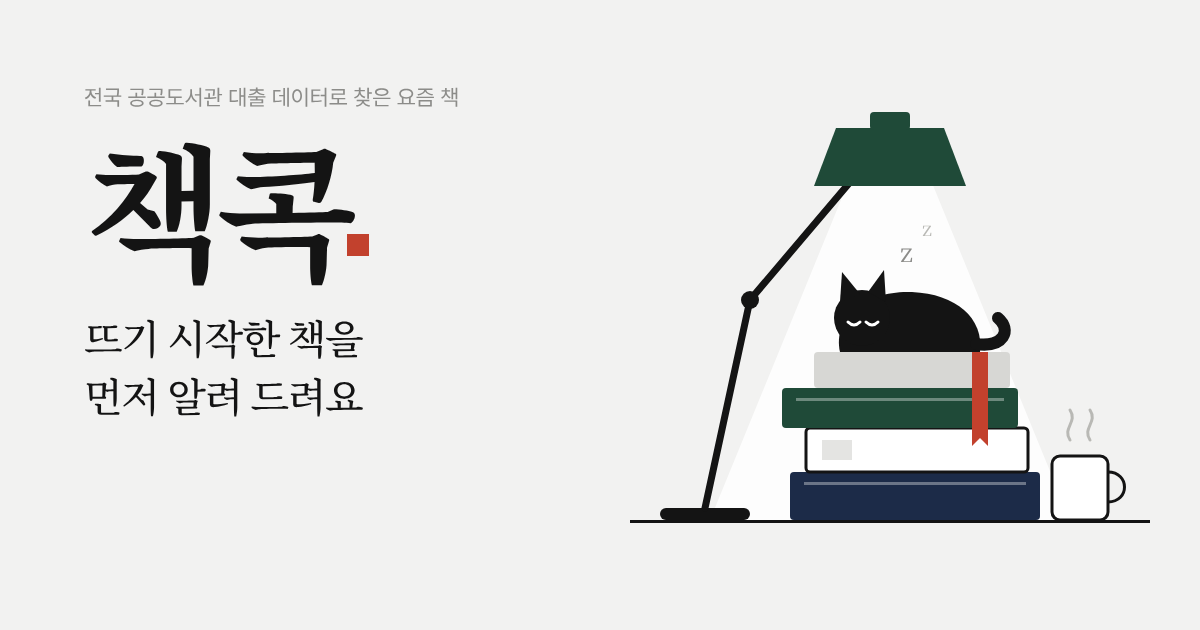
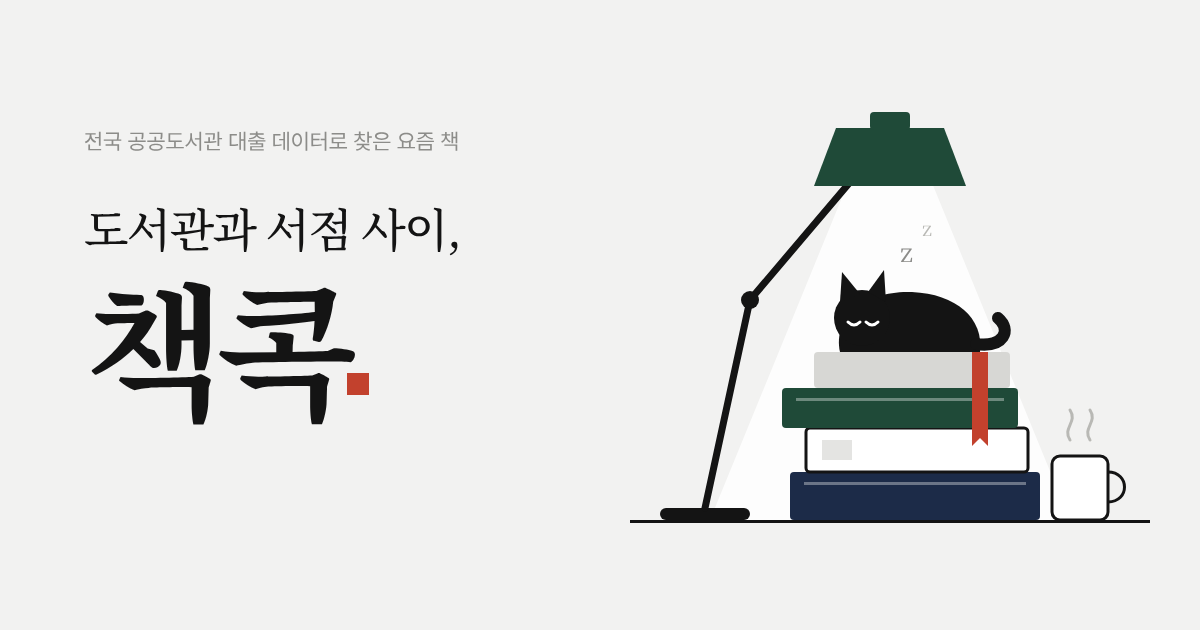
슬로건 '도서관과 서점 사이, 책콕' 적용: 미리보기 이미지·페이지 제목·설명·앱 이름·홈 첫 줄
Claude-Session: https://claude.ai/code/session_01UWatKrDsrq9n721haUJXCs

Changed region(s): [[0.0617, 0.2111, 0.4008, 0.6937], [0.0617, 0.1206, 0.4008, 0.181]]

diff --git a/index.html b/index.html
@@ -4,8 +4,8 @@
     <meta charset="UTF-8" />
     <meta name="viewport" content="width=device-width, initial-scale=1.0, viewport-fit=cover" />
     <meta name="theme-color" content="#ffffff" />
-    <title>책콕 — 먼저 알아채는 책 | 요즘 뜨기 시작한 책 추천</title>
-    <meta name="description" content="전국 도서관 대출 데이터로 요즘 뜨기 시작한 책을 먼저 알려주는 책 트렌드 서비스. 키워드·급상승 책·신작을 매일 업데이트해요." />
+    <title>책콕 — 도서관과 서점 사이 | 요즘 뜨는 책 찾고, 빌리고, 사기</title>
+    <meta name="description" content="도서관과 서점 사이, 책콕. 전국 공공도서관 대출 데이터로 요즘 뜨는 책을 먼저 찾고, 내 도서관에서 빌리거나 서점에서 사세요. 키워드·급상승 책·신작을 매일 업데이트해요." />
     <meta name="keywords" content="책콕, 책 추천, 요즘 뜨는 책, 베스트셀러, 도서관 인기 대출, 대출 급상승, 신간, 책 트렌드, 이달의 키워드" />
     <link rel="canonical" href="https://chaekkok.vercel.app/" />
     <meta name="robots" content="index, follow" />
@@ -14,22 +14,22 @@
     <meta property="og:site_name" content="책콕" />
     <meta property="og:locale" content="ko_KR" />
     <meta property="og:url" content="https://chaekkok.vercel.app/" />
-    <meta property="og:title" content="책콕 — 뜨기 시작한 책을 먼저 알려드려요" />
+    <meta property="og:title" content="도서관과 서점 사이, 책콕" />
     <meta property="og:description" content="전국 공공도서관 대출 데이터로 찾은 요즘 책. 이달의 키워드와 대출 급상승 책을 매일 아침 업데이트해요." />
-    <meta property="og:image" content="https://chaekkok.vercel.app/og.png?v=20261122c" />
+    <meta property="og:image" content="https://chaekkok.vercel.app/og.png?v=20261122d" />
     <meta property="og:image:width" content="1200" />
     <meta property="og:image:height" content="630" />
-    <meta property="og:image:alt" content="책콕 — 전국 공공도서관 대출 데이터로 뜨기 시작한 책을 먼저 알려 드려요" />
+    <meta property="og:image:alt" content="도서관과 서점 사이, 책콕 — 스탠드 아래 책 위에서 잠든 고양이" />
     <meta name="twitter:card" content="summary_large_image" />
-    <meta name="twitter:title" content="책콕 — 뜨기 시작한 책을 먼저 알려드려요" />
+    <meta name="twitter:title" content="도서관과 서점 사이, 책콕" />
     <meta name="twitter:description" content="전국 공공도서관 대출 데이터로 찾은 요즘 책. 매일 아침 업데이트해요." />
-    <meta name="twitter:image" content="https://chaekkok.vercel.app/og.png?v=20261122c" />
+    <meta name="twitter:image" content="https://chaekkok.vercel.app/og.png?v=20261122d" />
     <script type="application/ld+json">
       {
         "@context": "https://schema.org",
         "@type": "WebSite",
         "name": "책콕",
-        "alternateName": ["chaekkok", "책콕 — 먼저 알아채는 책"],
+        "alternateName": ["chaekkok", "도서관과 서점 사이, 책콕"],
         "url": "https://chaekkok.vercel.app/",
         "description": "전국 공공도서관 대출 데이터로 요즘 뜨기 시작한 책을 먼저 알려주는 책 트렌드 서비스",
         "inLanguage": "ko-KR"
@@ -55,7 +55,7 @@
   <body>
     <div id="root"></div>
     <noscript>
-      <h1>책콕 — 먼저 알아채는 책</h1>
+      <h1>도서관과 서점 사이, 책콕</h1>
       <p>전국 공공도서관 대출 데이터로 요즘 뜨기 시작한 책을 먼저 알려주는 책 트렌드 서비스예요. 화면을 보려면 자바스크립트를 켜 주세요.</p>
     </noscript>
     <script type="module" src="/src/main.jsx"></script>

diff --git a/src/index.css b/src/index.css
@@ -6593,3 +6593,7 @@ body { font-family: var(--font); letter-spacing: -0.012em; }
   .kokcat--stage { right: 18px; width: 78px; }
   .kokcat--page { right: 0; top: 10px; width: 84px; }
 }
+/* 슬로건 */
+.phome__slogan { margin: 0; padding: 6px 20px 0; font-family: var(--display); font-size: 15px; color: var(--ink-soft); letter-spacing: -0.02em; }
+.phome__slogan b { color: var(--ink); font-weight: 700; }
+@media (min-width: 1100px) { .phome__slogan { padding: 40px 0 0; font-size: 17px; } .phome .pkw { padding-top: 22px; } }

diff --git a/src/App.jsx b/src/App.jsx
@@ -1027,6 +1027,9 @@ function Home({ feed, keywords, loading, error, upcoming, hitStats, unread, libs
       <div className="phome">
         {loading && <Loading />}
         {error && <p className="state state--error">데이터를 불러오지 못했어요: {error}</p>}
+        <p className="phome__slogan">
+          도서관과 서점 사이, <b>책콕</b>
+        </p>
         {!loading && !error && top5.length > 0 && (
           <>
             <PlainKeyword keywords={keywords} />

diff --git a/api/page.js b/api/page.js
@@ -118,7 +118,7 @@ async function bookPage(isbn) {
     110,
   )
   const url = `${SITE}/book/${isbn}`
-  const image = https(b.cover_url) || `${SITE}/og.png?v=20261122c`
+  const image = https(b.cover_url) || `${SITE}/og.png?v=20261122d`
   const jsonld = {
     '@context': 'https://schema.org',
     '@type': 'Book',
